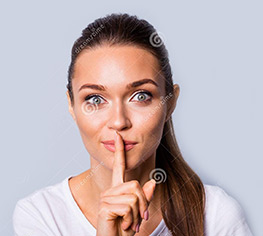
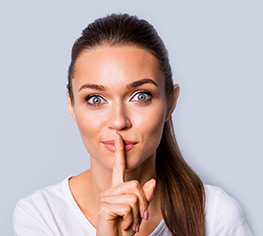
Replaced Watermarked Images, Building Front End Still

diff --git a/client/src/components/layout/resume/sections/Resume_3/ContactForm.js b/client/src/components/layout/resume/sections/Resume_3/ContactForm.js
@@ -1,0 +1,166 @@
+import React from 'react';
+import { Formik } from 'formik';
+import * as Yup from 'yup';
+import Error from '../../../../Error';
+import axios from 'axios';
+
+/* Import Styles */
+import './ContactForm.Style.css';
+
+const validationSchema = Yup.object().shape({
+  name: Yup.string()
+    .min(3, 'Must be longer than 2 characters')
+    .max(255, 'Must be shorter than 255 characters')
+    .required('Must enter name'),
+  company: Yup.string()
+    .min(3, 'Must be longer than 2 characters')
+    .max(255, 'Must be shorter than 255 characters'),
+  phone: Yup.string()
+    .min(6, 'Must be longer than 6 numbers')
+    .max(15, 'Must be shorter than 15 numbers')
+    .required('Must enter a phone number'),
+  email: Yup.string()
+    .email('Must be a valid email address')
+    .max(255, 'Must be shorter than 255 characters')
+    .required('Must enter an email'),
+  message: Yup.string()
+    .min(1, 'Must be longer than 1 character')
+    .required('Must enter a message')
+});
+
+const ContactForm = props => {
+  let formVisible = true;
+
+  //<span className={nameInputErrorStyle}>Invalid phone number format</span>
+  return (
+    <React.Fragment>
+      <div id='contactMeForm'>
+        <Formik
+          initialValues={{
+            name: '',
+            company: '',
+            phone: '',
+            email: '',
+            message: ''
+          }}
+          validationSchema={validationSchema}
+          onSubmit={(values, { setSubmitting, resetForm }) => {
+            setSubmitting(true);
+
+            axios.post('/api/form', {
+              name: values.name,
+              company: values.company,
+              phone: values.phone,
+              email: values.email,
+              message: values.message
+            });
+
+            formVisible = false;
+
+            setSubmitting(false);
+            resetForm();
+          }}
+        >
+          {({
+            values,
+            errors,
+            touched,
+            handleChange,
+            handleBlur,
+            handleSubmit,
+            isSubmitting
+          }) => (
+            <form onSubmit={handleSubmit}>
+              <div className='form-wrap'>
+                <input
+                  type='text'
+                  name='name'
+                  id='name'
+                  placeholder='NAME'
+                  onChange={handleChange}
+                  onBlur={handleBlur}
+                  value={values.name}
+                  className={touched.name && errors.name ? 'has-error' : null}
+                />
+                <Error touched={touched.name} message={errors.name} />
+              </div>
+              <div className='form-wrap'>
+                <input
+                  type='text'
+                  name='company'
+                  id='company'
+                  placeholder='COMPANY'
+                  onChange={handleChange}
+                  onBlur={handleBlur}
+                  value={values.company}
+                  className={
+                    touched.company && errors.company ? 'has-error' : null
+                  }
+                />
+                <Error touched={touched.company} message={errors.company} />
+              </div>
+              <div className='form-wrap'>
+                <input
+                  type='text'
+                  name='phone'
+                  id='phone'
+                  placeholder='PHONE'
+                  onChange={handleChange}
+                  onBlur={handleBlur}
+                  value={values.phone}
+                  className={touched.phone && errors.phone ? 'has-error' : null}
+                />
+                <Error touched={touched.phone} message={errors.phone} />
+              </div>
+              <div className='form-wrap'>
+                <input
+                  type='text'
+                  name='email'
+                  id='email'
+                  placeholder='EMAIL'
+                  onChange={handleChange}
+                  onBlur={handleBlur}
+                  value={values.email}
+                  className={touched.email && errors.email ? 'has-error' : null}
+                />
+                <Error touched={touched.email} message={errors.email} />
+              </div>
+              <div className='form-wrap textarea'>
+                <textarea
+                  name='message'
+                  id='message'
+                  placeholder='MESSAGE'
+                  onChange={handleChange}
+                  onBlur={handleBlur}
+                  value={values.message}
+                  className={
+                    touched.message && errors.message ? 'has-error' : null
+                  }
+                />
+                <Error touched={touched.message} message={errors.message} />
+              </div>
+              <button
+                id='contactSubmitButton'
+                type='submit'
+                disabled={isSubmitting}
+              >
+                Submit
+              </button>
+              <span id='contactSentPar'>
+                <span
+                  id='contactSent'
+                  className={formVisible ? 'formVisible' : 'formHidden'}
+                >
+                  <span className='check' />
+                  Your Message Has Been Sent
+                </span>
+              </span>
+            </form>
+          )}
+        </Formik>
+      </div>
+    </React.Fragment>
+  );
+};
+
+export default ContactForm;

diff --git a/client/src/components/layout/resume/sections/Resume_3/ContactForm.Style.css b/client/src/components/layout/resume/sections/Resume_3/ContactForm.Style.css
@@ -1,0 +1,107 @@
+#contactMeForm {
+  width: 100%;
+  position: relative;
+}
+.form-wrap {
+  position: relative;
+  margin-bottom: 35px;
+}
+.form-wrap.textarea {
+  margin-bottom: 30px;
+}
+#contactMeForm.formHidden {
+  display: none;
+}
+
+#contactMeForm input {
+  border: none;
+  border-bottom: 1px solid black;
+  background: none;
+  color: black;
+  height: 30px;
+  width: 100%;
+  transition: 0.3s;
+  padding: 10px 0px;
+}
+
+#contactMeForm input,
+#contactMeForm textarea {
+  font-size: 14px;
+  font-family: Arial;
+}
+
+#contactMeForm input.has-error,
+#contactMeForm textarea.has-error {
+  border-bottom: 1px solid red;
+}
+
+#contactMeForm textarea {
+  border: none;
+  width: 100%;
+  min-height: 68px;
+  max-height: 150px;
+  resize: vertical;
+  border-bottom: 1px solid black;
+  background: none;
+  color: black;
+  transition: 0.3s;
+}
+
+#contactMeForm input::placeholder,
+#contactMeForm textarea::placeholder {
+  font-weight: bold;
+  color: black;
+  opacity: 1;
+  font-family: Arial;
+  font-size: 14px;
+}
+.form-message {
+  position: absolute;
+  color: red;
+  right: 0;
+  bottom: 0;
+  font-size: 12px;
+  transition: 0.3s;
+}
+.form-message.invalid {
+  transform: translate(0, 100%);
+}
+#contactSubmitButton {
+  background: #020a1e;
+  color: white;
+  font-size: 14px;
+  border-radius: 20px;
+  border: none;
+  padding: 10px 20px;
+  cursor: pointer;
+  margin-top: 4px;
+}
+#contactSentPar {
+  position: relative;
+  top: -10px;
+}
+#contactSent {
+  text-align: center;
+  color: black;
+  background: rgba(0, 0, 0, 0.5);
+  padding: 5px 15px 15px 20px;
+  font-size: 14px;
+  position: absolute;
+  transform: translate(-1000px);
+  transition: 2s;
+  transition-timing-function: ease-out;
+}
+#contactSent.formHidden {
+  transform: translateX(0);
+}
+.check {
+  display: inline-block;
+  transform: rotate(45deg);
+  height: 18px;
+  width: 7px;
+  border-bottom: 4px solid black;
+  border-right: 4px solid black;
+  position: relative;
+  top: 4px;
+  margin-right: 15px;
+}

diff --git a/client/src/components/layout/resume/sections/Resume_3/Resume_3.js b/client/src/components/layout/resume/sections/Resume_3/Resume_3.js
@@ -2,12 +2,21 @@ import React from 'react';
 import './Resume_3.css';
 
 import BottomShadow from '../../../../BottomShadow/BottomShadow';
+import ContactForm from './ContactForm';
 
 const Resume_3 = props => {
   return (
     <section className='r_sec_3'>
       <BottomShadow />
-      asdfasdf
+      <div className='centerContainer contactCenter'>
+        <div className='contactCol'>
+          <h1>Contact Details</h1>
+          <p>Location: Mill Creek, WA</p>
+          <p>Phone: 425.315.3743</p>
+          <p>Email: pm@twilightsavant.com</p>
+        </div>
+        <ContactForm />
+      </div>
     </section>
   );
 };

diff --git a/client/src/components/Error.js b/client/src/components/Error.js
@@ -1,0 +1,13 @@
+import React from 'react';
+
+const Error = ({ touched, message }) => {
+  if (!touched) {
+    return <span className='form-message valid'>&nbsp;</span>;
+  }
+  if (message) {
+    return <span className='form-message invalid'>{message}</span>;
+  }
+  return <span className='form-message valid'>&nbsp;</span>;
+};
+
+export default Error;

diff --git a/client/src/components/layout/resume/sections/Resume_3/Resume_3.css b/client/src/components/layout/resume/sections/Resume_3/Resume_3.css
@@ -1,4 +1,18 @@
 .r_sec_3 {
   background: #ebebeb;
   margin-bottom: 5px;
+  padding-bottom: 30px;
+}
+
+.r_sec_3 .contactCenter {
+  display: flex;
+  justify-content: space-between;
+  padding-top: 30px;
+  padding-bottom: 20px;
+}
+
+.r_sec_3 .contactCol {
+  flex: 30%;
+  border-right: 1px solid black;
+  margin-right: 40px;
 }
